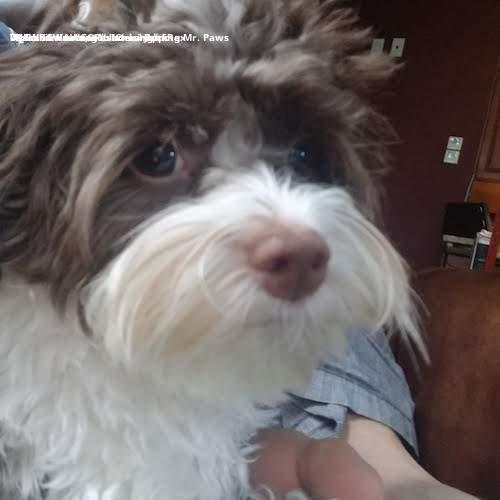
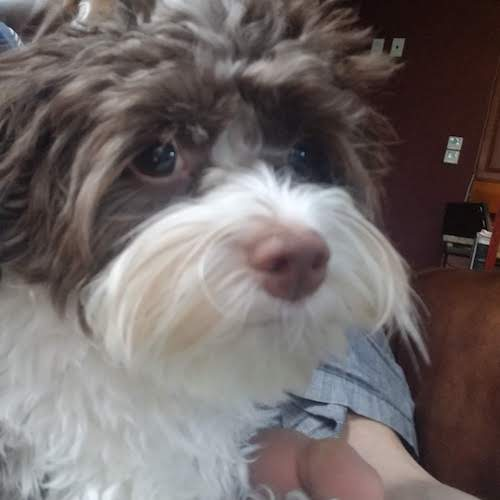
Created new output path for memes in Meme_Engine->make_mame() and placed original photos of xander back into 'dog' folder

Changed region(s): [[0.0, 0.06, 0.45, 0.09]]

diff --git a/src/MemeEngine/MemeEngine.py b/src/MemeEngine/MemeEngine.py
@@ -1,3 +1,5 @@
+from random import randint
+
 from PIL import Image, ImageDraw, ImageFont
 
 
@@ -27,5 +29,6 @@ class MemeEngine:
             draw = ImageDraw.Draw(new_img)
             font = ImageFont.truetype("./fonts/NotoSans/NotoSans-Bold.ttf")
             draw.text((10, 30), text + " " + author, font=font, fill="white")
-            new_img.save(img_path)
-            return img_path
+            out_path = f"./_data/photos/memes/{randint(0, 10000)}.jpg"
+            new_img.save(out_path)
+            return out_path

diff --git a/src/app.py b/src/app.py
@@ -9,7 +9,7 @@ from QuoteEngine import Ingestor
 
 app = Flask(__name__)
 
-meme = MemeEngine('./static')
+meme = MemeEngine('./files')
 
 
 def setup():
@@ -77,7 +77,7 @@ def meme_post():
     author = request.form['author']
 
     req = requests.get(image_url, allow_redirects=True)
-    tmp_file = f'./{random.randint(0, 10000)}.png'
+    tmp_file = f'./{random.randint(0, 10000)}.jpg'
     open(tmp_file, "wb").write(req.content)
     path = meme.make_meme(tmp_file, body, author)
     os.remove(tmp_file)
